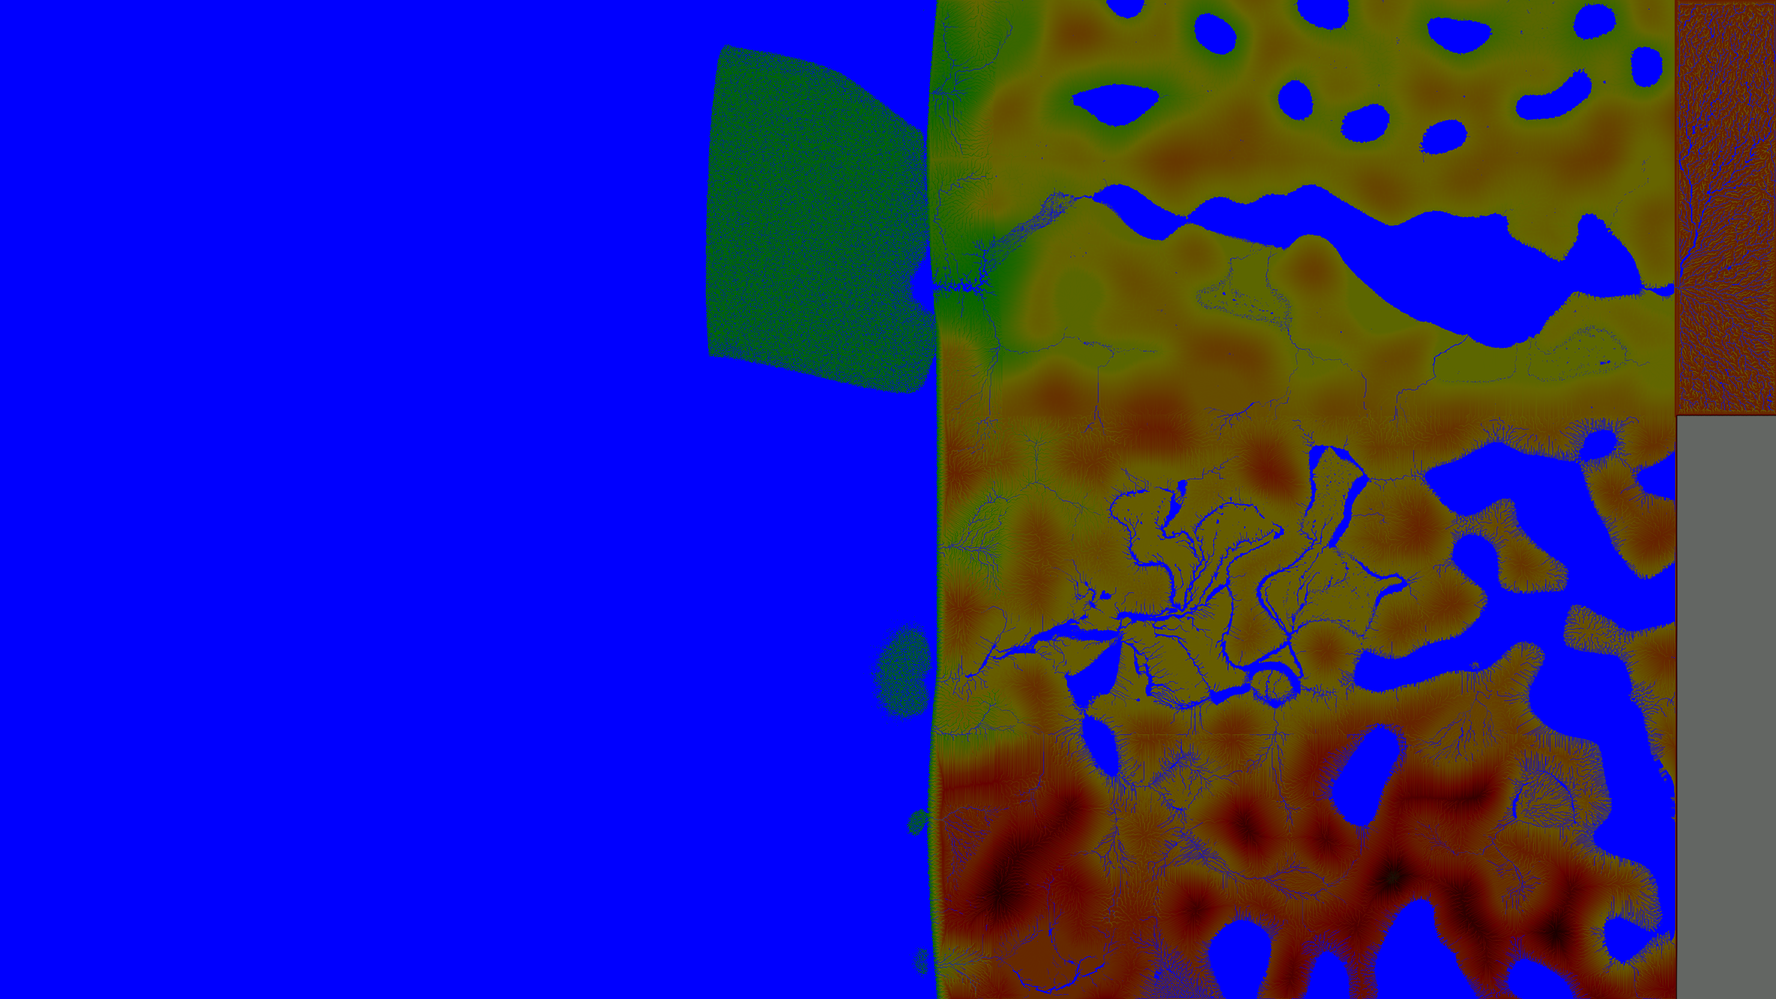
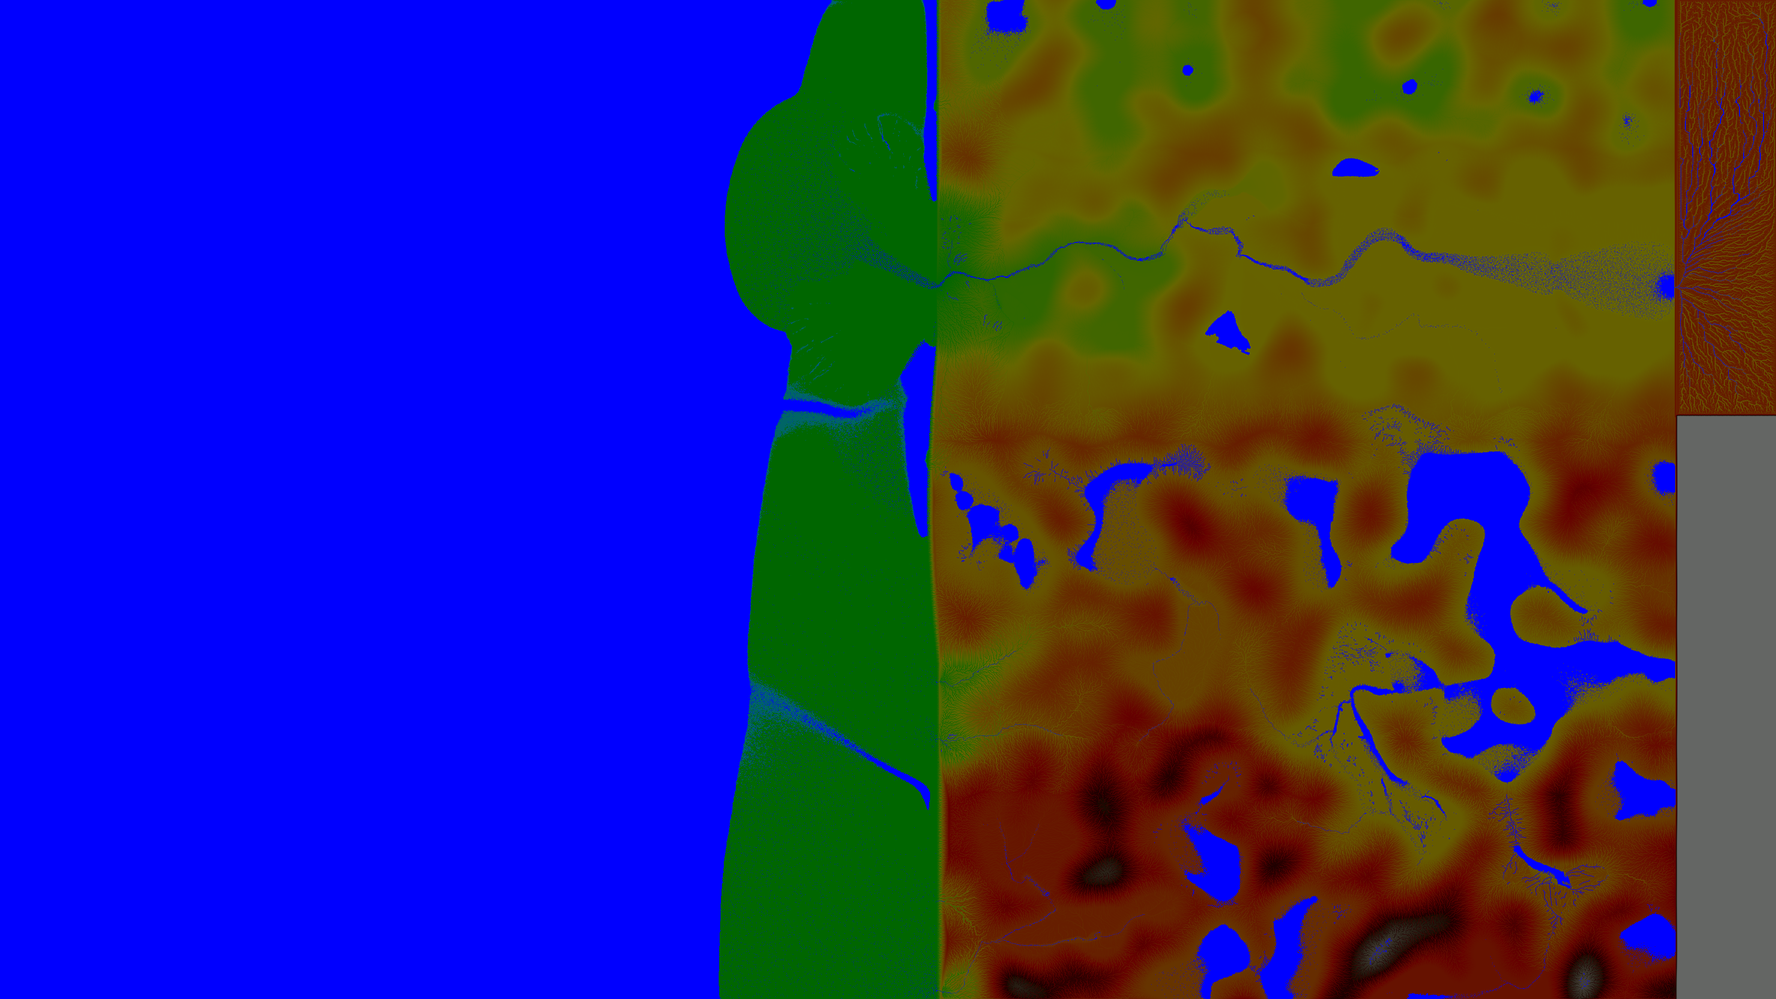
Consistently use total elevation + residual elevation. Tinker with evaporation and rainfall (particularly in sea). Saved images are for > 3800 rounds.

diff --git a/src/main.rs b/src/main.rs
@@ -433,7 +433,7 @@ fn simulate_rainfall(
             println!(
                 "Round {:.0}: water in {:.3}  stored {:.3}  mean depth {:.3} ft  max depth {:.3} ft  wet {:} ({:.1}%)  source elevation {:.3} ft  outlet elevation {:.3} ft  target delta elevation {:.3} ft",
                 round,
-                (rainfall_added + RIVER_WATER_PER_STEP),
+                rainfall_added,
                 water_on_land,
                 mean_depth,
                 max_depth,
@@ -462,10 +462,19 @@ fn simulate_rainfall(
             save_buffer_png("terrain_water.png", &frame_buffer, WIDTH_PIXELS as u32, HEIGHT_PIXELS as u32);
 
             render_frame(hex_map, &mut frame_buffer, current_sea_level, false);
-            save_buffer_png("terrain.png", &frame_buffer, WIDTH_PIXELS as u32, HEIGHT_PIXELS as u32);
+            if _step == 0 {
+                // For checking for weird behavior as erosion progresses.
+                save_buffer_png("terrain_initial.png", &frame_buffer, WIDTH_PIXELS as u32, HEIGHT_PIXELS as u32);
+            } else {
+                save_buffer_png("terrain.png", &frame_buffer, WIDTH_PIXELS as u32, HEIGHT_PIXELS as u32);
+            }
+        } else {
+            // TODO: Get the heartbeat to work.
+            gpu_sim.heartbeat();
         }
 
         gpu_sim.run_rainfall_step(width * height, current_sea_level);
+        
 
         // if _step % 100 == 0 {
         //     print_elevation_and_sediment(&gpu_sim, "new step");
@@ -662,24 +671,50 @@ fn get_erruption_elevation(target_elevation: f32) -> f32 {
     erruption_elevation
 }
 
+// Generates a value between 0 and 1.
 fn get_perlin_noise(perlin: &Perlin, input: f64, period: f64) -> f32 {
     (perlin.get([input / period]) as f32 + 1.0) / 2.0
 }
 
+// Generates a value between 0 and 1.
 fn get_perlin_noise_for_hex(perlin: &Perlin, x: f64, y: f64, period: f64) -> f32 {
     (perlin.get([x * HEX_FACTOR as f64 / period, y / period]) as f32 + 1.0) / 2.0
 }
 
+// Generates a value between -COAST_WIDTH/2 and COAST_WIDTH/2.
 fn get_sea_deviation(perlin: &Perlin, y: f64, period: f64) -> usize {
     ((get_perlin_noise(perlin, y, period) - 0.5) * COAST_WIDTH as f32) as usize
 }
 
+// Generates a value between -12 and 12.
+fn get_land_deviation(perlin: &Perlin, x: f64, y: f64, period: f64) -> i16 {
+    ((get_perlin_noise_for_hex(perlin, x, y, period) - 0.5) * 24.0 * 2.0) as i16
+}
+
+fn get_rainfall(rain_class: i32) -> f32 {
+    match rain_class {
+        0 => VERY_LOW_RAIN,
+        1 => LOW_RAIN,
+        2 => MEDIUM_RAIN,
+        3 => HIGH_RAIN,
+        4 => VERY_HIGH_RAIN,
+        // default error case
+        _ => 0.0,
+    }
+}
+
 fn main() {
-    // Allow user to override number of rounds via command-line: first positional arg is rounds, e.g. `cargo run --release -- 2000`
+    // Allow user to override number of rounds via command-line: first positional arg is rounds,
+    // e.g. `$env:RUST_BACKTRACE=1; cargo run --release -- 24000`
     let rounds: u32 = std::env::args()
         .nth(1)
         .and_then(|s| s.parse::<u32>().ok())
         .unwrap_or(DEFAULT_ROUNDS);
+
+    let elevation_adjustment = rounds as f32 / 60_000.0 as f32;
+    let adj_south_mountains_max_elevation = SOUTH_MOUNTAINS_MAX_ELEVATION * (1.0 + elevation_adjustment);
+    let adj_central_highland_max_elevation = CENTRAL_HIGHLAND_MAX_ELEVATION * (1.0 + elevation_adjustment * LOW_RAIN / MEDIUM_RAIN);
+    let adj_north_desert_max_elevation = NORTH_DESERT_MAX_ELEVATION * (1.0 + elevation_adjustment * VERY_LOW_RAIN / MEDIUM_RAIN);
 
     let mut hex_map = Vec::new();
     let mut rng = rand::thread_rng();
@@ -690,7 +725,9 @@ fn main() {
     let perlin = Perlin::new(seed);
     let transition_period = ONE_DEGREE_LATITUDE_MILES as f64 * 2.0;
     let sea_deviation_for_river_y = get_sea_deviation(&perlin, RIVER_Y as f64, HEIGHT_PIXELS as f64 / 1.5);
+    
     let river_outlet_x = TOTAL_SEA_WIDTH - sea_deviation_for_river_y;
+    let land_deviation_for_outlet = get_land_deviation(&perlin, river_outlet_x as f64, RIVER_Y as f64, 96.0);
 
     // Time hex map creation
     let hex_start = Instant::now();
@@ -706,6 +743,8 @@ fn main() {
             let mut elevation = 0.0;
             let mut distance_from_coast = (x + sea_deviation) as f32 - TOTAL_SEA_WIDTH as f32;
             let adjusted_y = y as f64 + (x % 2) as f64 * 0.5;
+            let y_deviation = land_deviation_for_outlet - get_land_deviation(&perlin, x as f64, y as f64, 96.0);
+            let deviated_y: usize = (y as i16 + y_deviation).max(0) as usize;
 
             // TODO: Continental probably shouldn't exactly follow coastline. In fact it would be cool if the god-knife-carving-out-the-coastline
             // thing I've got going on cut into the continental shelf.
@@ -722,61 +761,42 @@ fn main() {
                 let coastal_noise = get_perlin_noise_for_hex(&perlin, x as f64, adjusted_y, COAST_WIDTH as f64);
                 let perlin_noise = ((transition_period_noise + coastal_noise + map_third_noise) / 3.0).powf(3.0_f32.log2());
 
-                if y < NORTH_DESERT_HEIGHT {
-                    let (cx1, cy1) = hex_coordinates_to_cartesian(x as i32, y as i32);
+                if deviated_y < NORTH_DESERT_HEIGHT {
+                    let (cx1, cy1) = hex_coordinates_to_cartesian(x as i32, deviated_y as i32);
                     let (cx2, cy2) = hex_coordinates_to_cartesian(TOTAL_SEA_WIDTH as i32 - sea_deviation_for_river_y as i32, RIVER_Y as i32);
                     // Area is oval-shaped, not circular, with the longer axis running east-west.
+                    // Experiment with ratio of major axis to minor axis, too long might look weird but too short can result in the river
+                    // jumping the tracks, so to speak.
                     let factor = (cartesian_distance(0.0, cy1, (cx2 - cx1) / 2.5, cy2) / (transition_period as f32)).min(1.0);
                     elevation = perlin_noise * NORTH_DESERT_MAX_ELEVATION * factor;
-                } else if y < NORTH_DESERT_HEIGHT + CENTRAL_HIGHLAND_HEIGHT {
-                    // Similar to making sure the river isn't too far north, we should take steps to make sure the delta isn't too far south.
+                } else if deviated_y < NORTH_DESERT_HEIGHT + CENTRAL_HIGHLAND_HEIGHT {
                     // Faster transition because it's a less dramatic change.
-                    let factor = ((y - NORTH_DESERT_HEIGHT) as f32 / transition_period as f32 * 2.0).min(1.0);
-                    elevation = perlin_noise * ((CENTRAL_HIGHLAND_MAX_ELEVATION - NORTH_DESERT_MAX_ELEVATION) * factor + NORTH_DESERT_MAX_ELEVATION);
+                    let factor = ((deviated_y - NORTH_DESERT_HEIGHT) as f32 / transition_period as f32 * 2.0).min(1.0);
+                    elevation = perlin_noise * ((adj_central_highland_max_elevation - adj_north_desert_max_elevation) * factor + adj_north_desert_max_elevation);
                 } else {
-                    // Should probably be renamed "south mountains"
-                    // let coast_factor = distance_from_coast as f32 * 2.0 / COAST_WIDTH as f32;
-                    let factor = ((y - NORTH_DESERT_HEIGHT - CENTRAL_HIGHLAND_HEIGHT) as f32 / transition_period as f32).min(1.0);
-                    elevation = perlin_noise * ((SOUTH_MOUNTAINS_MAX_ELEVATION - CENTRAL_HIGHLAND_MAX_ELEVATION) * factor + CENTRAL_HIGHLAND_MAX_ELEVATION);
+                    let factor = ((deviated_y - NORTH_DESERT_HEIGHT - CENTRAL_HIGHLAND_HEIGHT) as f32 / transition_period as f32).min(1.0);
+                    elevation = perlin_noise * ((adj_south_mountains_max_elevation - adj_central_highland_max_elevation) * factor + adj_central_highland_max_elevation);
                 }
 
-                if y < RIVER_Y - (transition_period) as usize {
+                if deviated_y < RIVER_Y - (transition_period) as usize {
                     // This is to prevent the river outlet from being too far north.
-                    // TODO: Maybe fade this out once we get very far north?
-                    // let coast_factor = (1.0 - distance_from_coast as f32 * 2.0 / COAST_WIDTH as f32).max(0.0);
-                    let factor = ((RIVER_Y as f32 - transition_period as f32 * 2.0 - y as f32) / (transition_period as f32)).abs().clamp(0.0, 1.0);
-                    elevation = perlin_noise * NORTH_DESERT_MAX_ELEVATION + (1.0 - perlin_noise) * NORTH_DESERT_MAX_ELEVATION * (1.0 - factor) * 0.25;
-                } else if y < NORTH_DESERT_HEIGHT + transition_period as usize {
-                    let factor = ((NORTH_DESERT_HEIGHT as f32 - y as f32) / (transition_period as f32)).abs().clamp(0.0, 1.0);
-                    elevation += (1.0 - perlin_noise) * (CENTRAL_HIGHLAND_MAX_ELEVATION * 0.25) * (1.0 - factor);
+                    let factor = ((RIVER_Y as f32 - transition_period as f32 * 2.0 - deviated_y as f32) / (transition_period as f32)).abs().clamp(0.0, 1.0);
+                    elevation = perlin_noise * adj_north_desert_max_elevation + (1.0 - perlin_noise) * adj_north_desert_max_elevation * (1.0 - factor) * 0.25;
+                } else if deviated_y < NORTH_DESERT_HEIGHT + transition_period as usize {
+                    // Similarly this makes sure the river isn't too far south.
+                    let factor = ((NORTH_DESERT_HEIGHT as f32 - deviated_y as f32) / (transition_period as f32)).abs().clamp(0.0, 1.0);
+                    elevation += (1.0 - perlin_noise) * (adj_central_highland_max_elevation * 0.25) * (1.0 - factor);
                 }
             }
 
             // This produces a cut whose downward slope is 2 * MOUNTAINS_MAX_ELEVATION / COAST_WIDTH
             // The cut's deepest point is COAST_WIDTH * cut_factor from the coast, at a depth of 2 * MOUNTAINS_MAX_ELEVATION * cut_factor.
-            // Then it slopes upward out to the point where
-            // (COAST_WIDTH as f32 * cut_factor - distance_from_coast) * SOUTH_MOUNTAINS_MAX_ELEVATION / COAST_WIDTH as f32 / 2.0 + SOUTH_MOUNTAINS_MAX_ELEVATION * cut_factor) = 0
-            // or
-            // SOUTH_MOUNTAINS_MAX_ELEVATION * cut_factor / 2.0 - distance_from_coast * SOUTH_MOUNTAINS_MAX_ELEVATION / COAST_WIDTH as f32 / 2.0 + SOUTH_MOUNTAINS_MAX_ELEVATION * cut_factor = 0
-            // SOUTH_MOUNTAINS_MAX_ELEVATION * cut_factor / 2.0 + SOUTH_MOUNTAINS_MAX_ELEVATION * cut_factor = distance_from_coast * SOUTH_MOUNTAINS_MAX_ELEVATION / COAST_WIDTH as f32 / 2.0
-            // 3 * cut_factor = distance_from_coast / COAST_WIDTH as f32
-            // 3 * cut_factor * COAST_WIDTH as f32 = distance_from_coast
-            // Total area of cut is 3 * MOUNTAINS_MAX_ELEVATION * COAST_WIDTH * cut_factor^2
-            // TODO: rather than try to estimate the area of the cut I should actually just track what's removed.
+            // Then it slopes upward at the multiplicative inverse of the initial slope (if I did my math right).
             if distance_from_coast > COAST_WIDTH as f32 * cut_factor {
-                elevation = elevation.min(distance_from_coast * 2.0 / COAST_WIDTH as f32 * SOUTH_MOUNTAINS_MAX_ELEVATION);
+                elevation = elevation.min(distance_from_coast * 2.0 / COAST_WIDTH as f32 * adj_south_mountains_max_elevation);
             } else {
-                elevation = elevation.min((COAST_WIDTH as f32 * cut_factor - distance_from_coast) * SOUTH_MOUNTAINS_MAX_ELEVATION / COAST_WIDTH as f32 / 2.0 + SOUTH_MOUNTAINS_MAX_ELEVATION * cut_factor);
+                elevation = elevation.min((COAST_WIDTH as f32 * cut_factor - distance_from_coast) * adj_south_mountains_max_elevation / COAST_WIDTH as f32 / 2.0 + adj_south_mountains_max_elevation * cut_factor);
             }
-
-
-            // let mut bumper_factor = 0.0;
-            // if y > NORTH_DESERT_HEIGHT - BUMPER_RANGE && y < NORTH_DESERT_HEIGHT + BUMPER_RANGE {
-            //     bumper_factor = 1.0 - (y as i32 - NORTH_DESERT_HEIGHT as i32).abs() as f32 / (BUMPER_RANGE as f32);
-            // } else if y > NORTH_DESERT_HEIGHT + CENTRAL_HIGHLAND_HEIGHT - BUMPER_RANGE && y < NORTH_DESERT_HEIGHT + CENTRAL_HIGHLAND_HEIGHT + BUMPER_RANGE {
-            //     bumper_factor = 1.0 - (y as i32 - NORTH_DESERT_HEIGHT as i32 - CENTRAL_HIGHLAND_HEIGHT as i32).abs() as f32 / (BUMPER_RANGE as f32);
-            // }
-            // elevation += BUMPER_MAX_ELEVATION * bumper_factor * (distance_from_coast as f32 / (TOTAL_LAND_WIDTH as f32));
 
             // TODO: More realistic seafloor depth, and fix islands.
             // Special features:
@@ -790,65 +810,55 @@ fn main() {
             } else if x > TOTAL_SEA_WIDTH + NORTH_DESERT_WIDTH - NE_BASIN_FRINGE && y <= NE_BASIN_HEIGHT + NE_BASIN_FRINGE {
                 // The northeast basin.
                 // TODO: Refactor this so I'm not doing the goofy thing in the rainfall step.
-                elevation = NORTH_DESERT_MAX_ELEVATION + RANDOM_ELEVATION_FACTOR;
-                if distance_from_river_y > 0 {
-                    let factor = (distance_from_river_y as f32 / (NORTH_DESERT_HEIGHT as f32 - RIVER_Y as f32)).min(1.0);
-                    elevation += RANDOM_ELEVATION_FACTOR * factor;
+                elevation = adj_north_desert_max_elevation * 1.01;
+                // This specifically doesn't include y-deviation so the river source is exactly where we want it to be.
+                if distance_from_river_y != 0 {
+                    let factor = ((distance_from_river_y) as f32 / (NORTH_DESERT_HEIGHT as f32 - RIVER_Y as f32)).min(1.0);
+                    elevation += (adj_north_desert_max_elevation * 0.01) * factor;
                 }
-            // } else if x == ISLAND_CHAIN_X {
-                // Need to figure out how to do this without causing out-of-control erosion of the sea floor.
-                // if y == FIRST_ISLAND_Y {
-                //     elevation += get_erruption_elevation(SEA_LEVEL - elevation + FIRST_ISLAND_MAX_ELEVATION);
-                // } else if y == SECOND_ISLAND_Y {
-                //     elevation += get_erruption_elevation(SEA_LEVEL - elevation + SECOND_ISLAND_MAX_ELEVATION);
-                // }
-            }
-            // TODO: seaside cliff just north of 34 degrees latitude. Make it 512 feet at the highest point, like the Athenian acropolis.
-            if x + sea_deviation <= TOTAL_SEA_WIDTH + NORTH_DESERT_WIDTH - NE_BASIN_FRINGE as usize {
-                elevation += (get_perlin_noise_for_hex(&perlin, x as f64, adjusted_y, 6.0) - 0.5) * RANDOM_ELEVATION_FACTOR * 3.0;
             }
 
-            let mut rain_class = 0;
-            if x + sea_deviation > TOTAL_SEA_WIDTH && (distance_from_coast as usize) < COAST_WIDTH {
-                rain_class += 1;
+            if x + sea_deviation <= TOTAL_SEA_WIDTH + NORTH_DESERT_WIDTH - NE_BASIN_FRINGE as usize {
+                elevation += rng.gen_range(0.0..0.01) * elevation.max(HEX_SIZE as f32);
             }
-            if y > NORTH_DESERT_HEIGHT {
-                rain_class += 1;
-            }
-            if y > NORTH_DESERT_HEIGHT + CENTRAL_HIGHLAND_HEIGHT {
-                rain_class += 1;
-            }
+
+            // TODO: Rain code needs to be more gradual, becomes too obvious in erosion patterns. Could use a relatively small "fringe" constant, like 6 or 7 hexes.
+            let mut rainfall = 0.0;
+
             if x > TOTAL_SEA_WIDTH + NORTH_DESERT_WIDTH {
                 if y <= NE_BASIN_HEIGHT {
-                    rain_class = 4;
+                    rainfall = VERY_HIGH_RAIN;
                     if x > TOTAL_SEA_WIDTH + NORTH_DESERT_WIDTH + NE_BASIN_FRINGE {
-                        elevation = NORTH_DESERT_MAX_ELEVATION + RANDOM_ELEVATION_FACTOR;
+                        elevation = adj_north_desert_max_elevation * 1.01;
                     }
                 } else {
                     elevation = MAX_ELEVATION;
-                    rain_class = -1;
                 }
+            } else {
+                let mut rain_class = 0;
+                if deviated_y > NORTH_DESERT_HEIGHT {
+                    rain_class += 1;
+                }
+                if deviated_y > NORTH_DESERT_HEIGHT + CENTRAL_HIGHLAND_HEIGHT {
+                    rain_class += 1;
+                }
+
+                if (distance_from_coast as usize) < COAST_WIDTH - COAST_FRINGE {
+                    rainfall = get_rainfall(rain_class + 1);
+                } else if (distance_from_coast as usize) > COAST_WIDTH + COAST_FRINGE {
+                    rainfall = get_rainfall(rain_class);
+                } else {
+                    let factor = (distance_from_coast as usize + COAST_FRINGE - COAST_WIDTH) as f32 / COAST_FRINGE as f32 / 2.0;
+                    rainfall = get_rainfall(rain_class) * factor + get_rainfall(rain_class + 1) * (1.0 - factor);
+                }
+                
             }
 
-            // Case switch statement to set rainfall based on rain_class:
-            let rainfall = match rain_class {
-                0 => VERY_LOW_RAIN,
-                1 => LOW_RAIN,
-                2 => MEDIUM_RAIN,
-                3 => HIGH_RAIN,
-                4 => VERY_HIGH_RAIN,
-                // default error case
-                _ => 0.0,
-            };
-
+            // As above, ignore y-deviation.
             if distance_from_river_y == 0 {
-                elevation = elevation.min(NORTH_DESERT_MAX_ELEVATION + RANDOM_ELEVATION_FACTOR);
-            } else {
-                // Not sure why I keep needing these little adjustments to avoid magenta
-                elevation = elevation.min(MAX_ELEVATION * 255.0 / 256.0);
+                elevation = elevation.min(adj_north_desert_max_elevation * 1.01);
             }
             
-
             hex_map[y as usize].push(Hex {
                 coordinate: (x, y),
                 elevation,

diff --git a/src/gpu_simulation.rs b/src/gpu_simulation.rs
@@ -136,7 +136,8 @@ impl GpuSimulation {
 
         let adapter = instance
             .request_adapter(&wgpu::RequestAdapterOptions {
-                power_preference: wgpu::PowerPreference::default(),
+                // Or just use default?
+                power_preference: wgpu::PowerPreference::HighPerformance,
                 compatible_surface: None,
                 force_fallback_adapter: false,
             })
@@ -210,7 +211,7 @@ impl GpuSimulation {
 
         let rainfall_shader = device.create_shader_module(wgpu::ShaderModuleDescriptor {
             label: Some("Rainfall Shader"),
-            source: wgpu::ShaderSource::Wgsl(std::borrow::Cow::Borrowed(include_str!("shaders/rainfall.wgsl"))),
+            source: wgpu::ShaderSource::Wgsl(std::borrow::Cow::Borrowed(concat!(include_str!("shaders/common.wgsl"), include_str!("shaders/rainfall.wgsl")))),
         });
 
         let rainfall_bind_group_layout = device.create_bind_group_layout(&wgpu::BindGroupLayoutDescriptor {
@@ -375,7 +376,7 @@ impl GpuSimulation {
         // Constants buffer (rain_per_step, hex_count) – rainfall shader
         let rain_constants_buffer = device.create_buffer(&wgpu::BufferDescriptor {
             label: Some("Rainfall Constants Buffer"),
-            size: std::mem::size_of::<[f32; 5]>() as u64, // Changed from [f32; 1] to [f32; 2]
+            size: std::mem::size_of::<[f32; 6]>() as u64, // Uses 6 constants
             usage: wgpu::BufferUsages::UNIFORM | wgpu::BufferUsages::COPY_DST,
             mapped_at_creation: false,
         });
@@ -594,7 +595,7 @@ impl GpuSimulation {
 
         let repose_shader = device.create_shader_module(wgpu::ShaderModuleDescriptor {
             label: Some("Repose Shader"),
-            source: wgpu::ShaderSource::Wgsl(include_str!("shaders/repose_deltas.wgsl").into()),
+            source: wgpu::ShaderSource::Wgsl(concat!(include_str!("shaders/common.wgsl"), include_str!("shaders/repose_deltas.wgsl")).into()),
         });
 
         let repose_bgl = device.create_bind_group_layout(&wgpu::BindGroupLayoutDescriptor {
@@ -723,6 +724,12 @@ impl GpuSimulation {
             apply_bgl,
             apply_bind,
         }
+    }
+
+    /// Lightweight keep-alive to service the device without blocking.
+    /// TODO: Not sure if this actually works.
+    pub fn heartbeat(&self) {
+        self.device.poll(wgpu::Maintain::Poll);
     }
 
     pub fn initialize_buffer(&mut self, width: usize, height: usize) {
@@ -909,7 +916,7 @@ impl GpuSimulation {
     /// Adds uniform rainfall to every cell using a compute shader.
     pub fn run_rainfall_step(&mut self, total_cells: usize, sea_level: f32) {
         // Update constants buffer with hex_count and sea_level
-        let constants = [total_cells as f32, sea_level, EVAPORATION_FACTOR, WIDTH_HEXAGONS as f32, (TOTAL_SEA_WIDTH + NORTH_DESERT_WIDTH) as f32];
+        let constants = [total_cells as f32, sea_level, EVAPORATION_FACTOR, WIDTH_HEXAGONS as f32, (TOTAL_SEA_WIDTH + NORTH_DESERT_WIDTH) as f32, CONTINENTAL_SHELF_DEPTH];
         self.queue.write_buffer(&self.rain_constants_buffer, 0, bytemuck::cast_slice(&constants));
 
         // Determine dispatch size (workgroup_size = 256)

diff --git a/src/constants.rs b/src/constants.rs
@@ -45,6 +45,7 @@ pub const DELTA_SEED_WIDTH: usize = 0;
 // River runs through north desert
 pub const NORTH_DESERT_WIDTH: usize = MAIN_RIVER_WIDTH + DELTA_SEED_WIDTH;
 pub const COAST_WIDTH: usize = (72.0 * 2.0 / HEX_FACTOR) as usize;
+pub const COAST_FRINGE: usize = 7;
 pub const NE_BASIN_FRINGE: usize = 4;
 pub const NORTH_DESERT_RAIN: f32 = (COAST_WIDTH as f32 * LOW_RAIN + (NORTH_DESERT_WIDTH - COAST_WIDTH) as f32 * VERY_LOW_RAIN) * NORTH_DESERT_HEIGHT as f32;
 // Rain on the part of the central highland whose east-west extent corresponds to the north desert.
@@ -75,18 +76,23 @@ pub const CENTRAL_HIGHLAND_MAX_ELEVATION: f32 = 12_000.0;
 pub const SOUTH_MOUNTAINS_MAX_ELEVATION: f32 = 20_000.0;
 
 pub const KC: f32 = 1.5; // capacity coefficient
-pub const KE: f32 = 0.15; // erosion rate fraction
-// Anything more than about 0.01 will cause weird little pits in lakes.
-// I was hoping fixing rounding errors in the erosion shader would fix this, but it didn't.
-pub const KD: f32 = 0.01; // deposition rate fraction
+pub const KE: f32 = 1.0 / 7.0; // erosion rate fraction
+// Experimentally, a KD of 0.01 results in even filling of large lakes.
+// 0.015 results in less even filling and possibly tighter rivers.
+// Too high a value may result in water sloshing back and forth drilling
+// pits in lakes, not sure where the limit is though.
+pub const KD: f32 = 1.0 / 7.0; // deposition rate fraction
 
-// TODO: Remove constants associated with the hard-coded river source after fully replacing it with the NE basin.
-// 0.01 hours of average flow through the Aswan Dam.
-pub const RIVER_WATER_PER_STEP: f32 = 0.371; // Feet
 pub const FLOW_FACTOR: f32 = 0.90;
 // Might take 7k-10k rounds to carve out the river valley I want.
 pub const DEFAULT_ROUNDS: u32 = 4_800;
-pub const WATER_THRESHOLD: f32 = 1.0 / 12.0; // Feet
+// TODO: Might be nice to have two levels of water to display in generated images,
+// a "hex-inch" could represent a river too deep to be forded but only a few tens of
+// feet across (vs. about half a mile for the entire hex). But to mark sea that's
+// readily navigable, you might want a threshold of five or six feet. One foot
+// might work as a compromise (and show where relatively shallow-draft boats can
+// move freely, even if ones with deeper draft couldn't).
+pub const WATER_THRESHOLD: f32 = 1.0; // Feet
 
 
 pub const MAX_SLOPE: f32 = 1.00;
